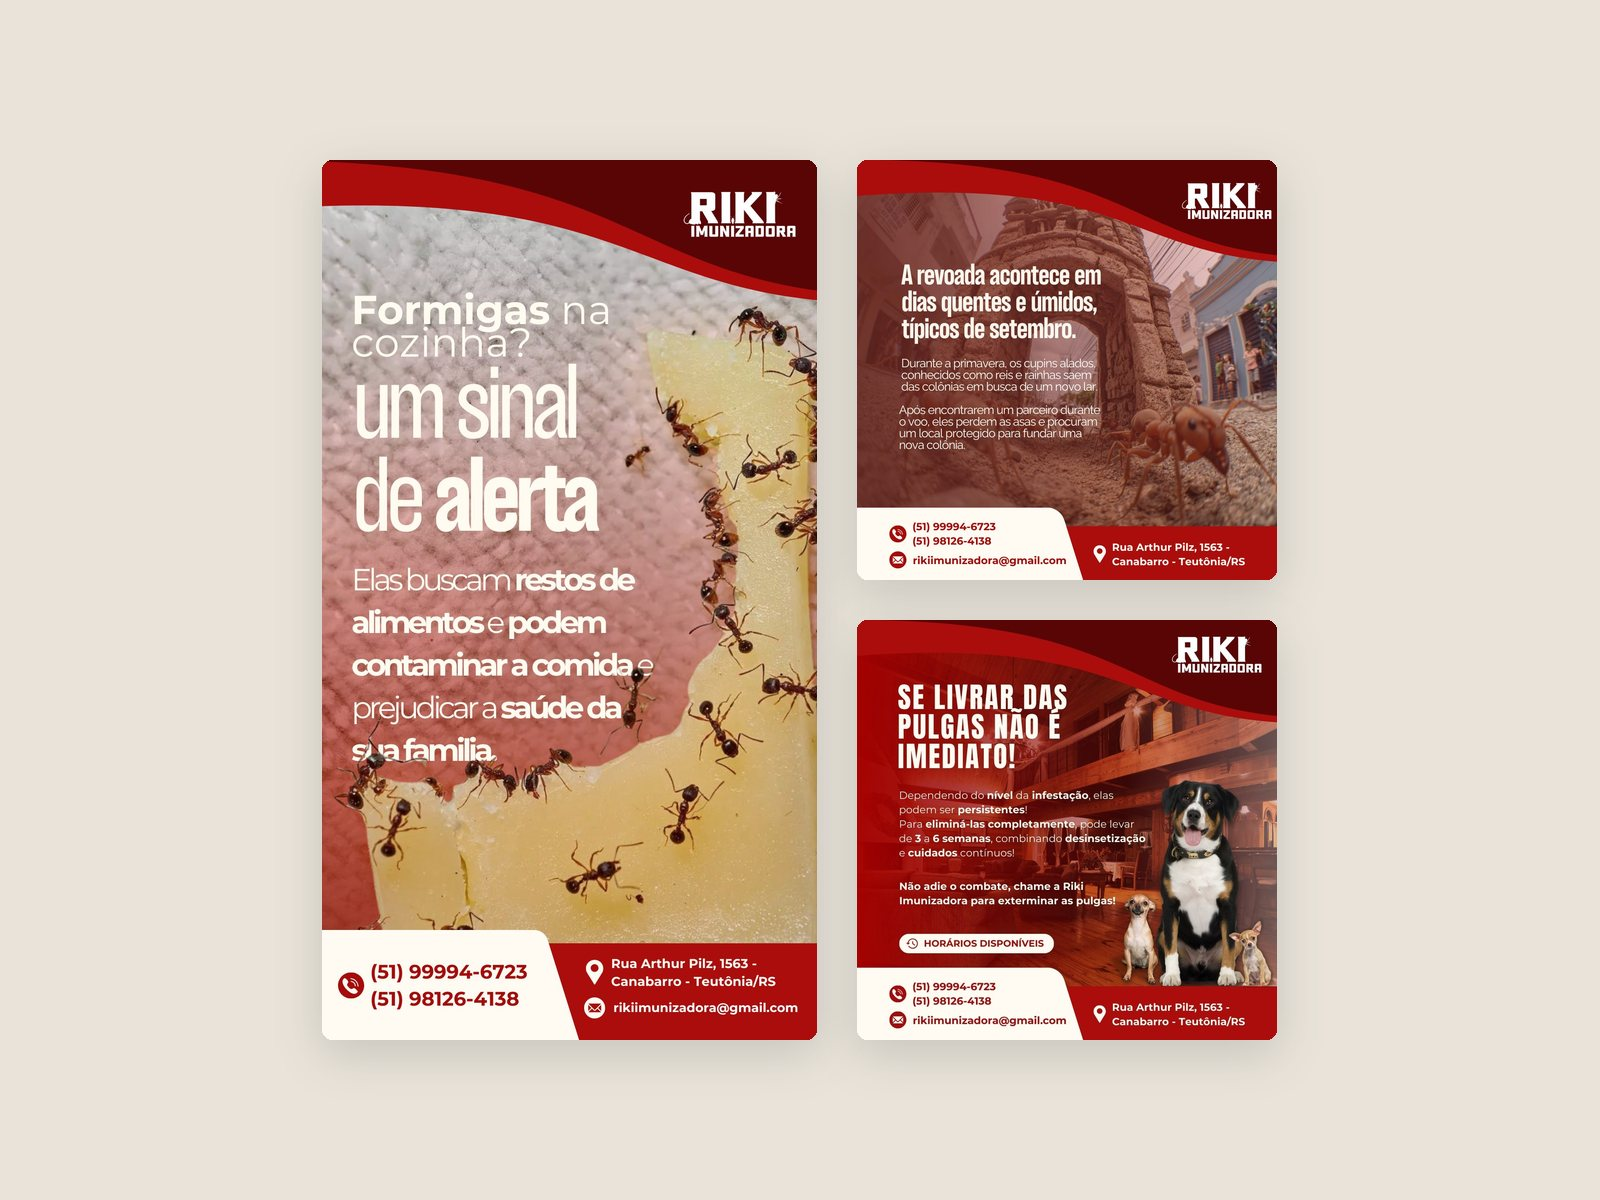
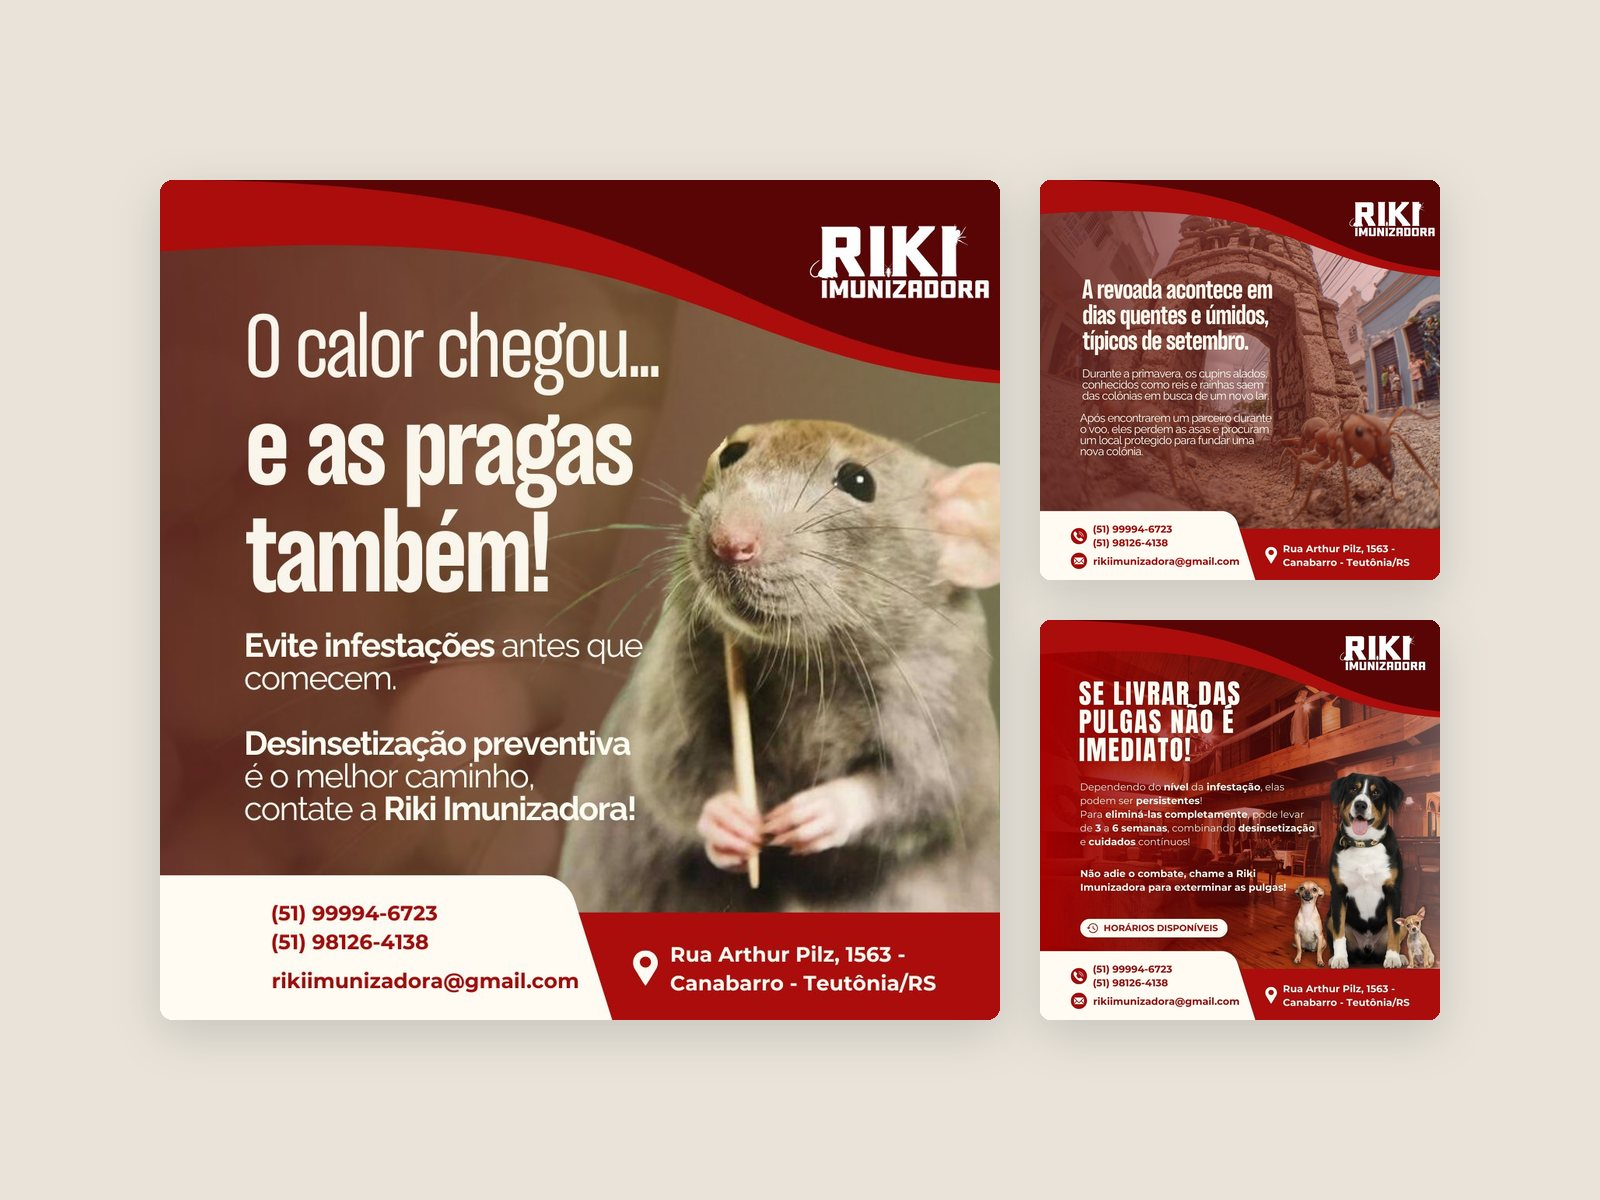
Riki: nova capa com o post do rato
Claude-Session: https://claude.ai/code/session_014v3DxsYWfTwvseLvm47oJu

diff --git a/content/projects.js b/content/projects.js
@@ -1924,7 +1924,7 @@ window.PROJECTS = [
     "summary": "Posts educativos e sazonais para uma empresa de controle de pragas, com uma moldura de marca que se repete em cada peça.",
     "cover": {
       "src": "img/covers/riki.jpg",
-      "alt": "Um story e dois posts da Riki Imunizadora sobre fundo neutro"
+      "alt": "Três posts da Riki Imunizadora sobre fundo neutro, com destaque para o rato segurando um palito"
     },
     "hero": {
       "src": "img/heroes/riki.jpg",

diff --git a/content/projects.en.js b/content/projects.en.js
@@ -1901,7 +1901,7 @@ window.PROJECTS_EN = [
     "summary": "Educational and seasonal posts for a pest control company, with a brand frame repeated on every piece.",
     "cover": {
       "src": "img/covers/riki.jpg",
-      "alt": "One story and two Riki Imunizadora posts on a neutral background"
+      "alt": "Three Riki Imunizadora posts on a neutral background, featuring the rat holding a stick"
     },
     "hero": {
       "src": "img/heroes/riki.jpg",
